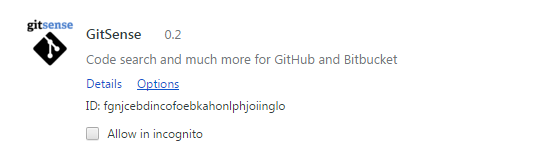
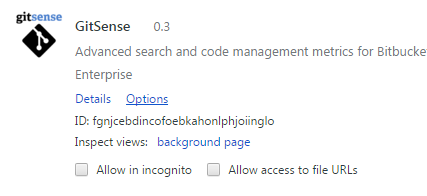
Publishing client-side routing post

diff --git a/blog/index.html b/blog/index.html
@@ -33,7 +33,109 @@
                         </h1>  
                     </div>
                     <div class=blog-post-summaries>
-<!-- START OF Benchmarking DigitalOcean, Vultr and a Six Year Old Laptop with GitSense -->
+<!-- START OF BLOG -->
+                        <h2 style="margin-bottom:5px;">
+                            <a href=/blog/client-side-routing.html class=blog-post-title>
+                                Using Client-Side Routing to Route Bitbucket, GitHub and GitHub Enterprise Searches
+                            </a>
+                        </h3>
+                        <div class=blog-post-metadata> 
+                            By Terrence Chen on March 21, 2016 
+                        </div>
+<p>
+If you have never heard of GitSense before, GitSense brings advanced search and code management metrics to <a href=https://bitbucket.org>Bitbucket</a>, <a href=https://github.com>GitHub</a> and <a href=https://github.com/business>GitHub Enterprise</a>.  And in this blog post, we'll talk about client-side routing and how it's used by GitSense, to support its divide and conquer approach to indexing and searching.
+</p>
+<p>
+Indexing and searching at GitHub and Bitbucket's scale is extremely challenging.  Creating and maintaining real-time search indexes, for millions of repositories, <a href=http://exploringelasticsearch.com/github_interview.html>requires significant processing power and lots of fast storage</a>; both of which, are not in abundance, for a bootstrapped startup like ours.  Luckily for us, improving search breadth (searching across millions of repositories) is not something we are interested in; improving search depth (drilling into repositories) is.
+</p>
+<p>
+In order for GitHub to support searches across millions of repositories, they have to take a shallow approach to indexing.  This is why you can't search for commits or diffs and why you can't search forked repositories and <a href=/github+gitsense.html>so forth</a>.  By focusing on search breadth, GitHub leaves a pretty big hole with regards to repository insight, and that's the hole we are interested in filling.
+</p>
+<p>
+If you've read our first blog post on <a href=/blog/benchmarking-march-14-2016.html>benchmarking low cost platforms</a>, you would know our indexers are designed to be installed, pretty much anywhere.  And it was our first post for a reason.  We wanted to highlight, early on, how GitSense could be used to divide and conquer, indexing and searching, at a massive scale.  And in this blog post, we'll go over how our <a href=https://chrome.google.com/webstore/detail/gitsense/fgnjcebdincofoebkahonlphjoiinglo>Chrome extension</a> is able to support such a model.
+</p>
+<p>
+If you haven't installed our Chrome extension you can do so through the <a href=https://chrome.google.com/webstore/detail/gitsense/fgnjcebdincofoebkahonlphjoiinglo>Chrome Webstore</a> or manually, by downloading the source from <a href=https://github.com/gitsense/gitsense-extensions>GitHub</a> or <a href=https://bitbucket.org/gitsense/gitsense-extensions/overview>Bitbucket</a>.  
+</p>
+
+<p>
+If have already installed GitSense, make sure to upgrade it to the latest version (0.3), which contains client-side routing support. You may also have to re-enable the GitSense extension, since changes were made to how permissions are requested.
+</p>
+
+<p>
+With GitSense installed, goto the GitSense options page, by entering <code>chrome://extensions</code> in your browser's location bar.
+</p>
+<p>
+<img src=/images/blog-client-side/chrome-extension-url.PNG class="box shadow" style="margin-top:5px;margin-bottom:5px;">
+</p>
+<p>
+and clicking on "Options" 
+</p>
+<p>
+<img src=/images/blog-client-side/extensions-options.png class="box shadow" style="margin-top:5px;margin-bottom:5px;">
+</p>
+<p>
+With the options page loaded, you'll find it comes with two default routing rules.
+</p>
+<p>
+<a href=/images/blog-client-side/default-options.png><img src=/images/blog-client-side/default-options.png class="box shadow" style="margin-top:5px;margin-bottom:5px;"></a>
+</p>
+<p>
+The first rule matches all Bitbucket URLs.  The second rule matches all GitHub URLs.  And if you expand the settings for each rule, you'll find they both reference the GitSense server at https://api.gitsense.com and GitHub/Bitbucket's respective API servers.
+</p>
+<p>
+To view the JSON for these two routing rules, refer to <a href=https://github.com/gitsense/gitsense-extensions/blob/master/chrome/js/config.js style="font-family:monospace">chrome/js/config.js</a> and to see how they are matched, refer to the <a href=https://github.com/gitsense/gitsense-extensions/blob/master/chrome/js/utils/config.js#L4 style="font-family:monospace">getRule</a> function that is defined in <a href=https://github.com/gitsense/gitsense-extensions/blob/master/chrome/js/utils/config.js style="font-family:monospace">chrome/js/utils/config.js</a>.  
+</p>
+<p>
+As a side note, https://api.gitsense.com is our public GitSense server and at the present moment, we are indexing about 5,000 Git repositories.  And since there are millions of repositories hosted on both GitHub and Bitbucket, we are mostly likely not indexing a repository that belongs to you and/or one that you are interested in.
+</p>
+<p>We are also not planning on indexing as many repos as we can, as that's not our objective.  Our objective is to empower the end user, by making it, insanely easy for Bitbucket, GitHub, and GitHub Enterprise users to install our technology, so they can index/search whatever repos they want.
+</p>
+<p>
+Now back to the topic at hand.  As explained earlier, <a href=https://help.github.com/articles/searching-code/>forked repositories</a> are not searchable in GitHub.  If you goto <a href=https://github.com/gitsense/atom/search?type=Code>https://github.com/gitsense/atom/search?type=Code</a>, you'll find a repo that we forked from <a href=https://github.com/atom/atom>atom/atom</a> and in this page, you'll find the following message:
+</p>
+<p>
+<img src=/images/blog-client-side/not-searchable.png class="box shadow" style="margin-top:5px;margin-bottom:5px;">
+</p>
+<p>
+If you have a forked repo in GitHub or GitHub Enteprise, you may find this search limitation a little inconvenient; luckily this is an easy fix for GitSense.  To make this repository branch level searchable, we just need to let GitSense know about it.
+</p>
+<p>
+For brevity sake, we are not going to go over how to install and administer our GitSense server.  We'll leave that for another post.  You just need to know one has been installed locally at 192.168.1.77 and has been setup to index our forked <a href=https://github.com/gitsense/atom>gitsense/atom</a> repository.
+</p>
+<p> 
+With our local GitSense server in place, we'll add a new routing rule to our Chrome extension. To do this, click the "Create new rule" button in GitSense options page.
+</p>
+</p>
+<p>
+<a href=/images/blog-client-side/blank-new-rule.PNG><img src=/images/blog-client-side/blank-new-rule.PNG class="box shadow" style="margin-top:5px;margin-bottom:5px;"></a>
+</p>
+<p>
+By default, the GitSense options script (<a href=https://github.com/gitsense/gitsense-extensions/blob/master/chrome/options.js style="font-family:monospace">chrome/options.js</a>) will append new rules and if you've read the code for the <a href=https://github.com/gitsense/gitsense-extensions/blob/master/chrome/js/utils/config.js#L4 style="font-family:monospace">getRule</a> function in <a href=https://github.com/gitsense/gitsense-extensions/blob/master/chrome/js/utils/config.js style="font-family:monospace">chrome/js/utils/config.js</a>, you'll know order is important. To ensure this rule is matched before <code>https://github.com/*</code>, we'll move it up one. Below is what the new rule looks like, with all the required fields filled in.  
+</p>
+</p>
+<p>
+<a href=/images/blog-client-side/new-rule.PNG><img src=/images/blog-client-side/new-rule.PNG class="box shadow" style="margin-top:5px;margin-bottom:5px;"></a>
+</p>
+<p>
+With the new routing rule in place, we can goto <a href=https://github.com/gitsense/atom>https://github.com/gitsense/atom</a> and do a quick search to see if everything works, and it does, as the screenshot below shows:
+</p>
+<p>
+<a href=/images/blog-client-side/forked-search.png><img src=/images/blog-client-side/forked-search.png class="box shadow" style="margin-top:5px;margin-bottom:5px;"></a>
+</p>
+<p>And if we bring up the Chrome debugger (Shift+Ctrl+J), we can confirm the queries are indeed, being routed to our local GitSense server at https://192.168.1.77
+<p>
+<a href=/images/blog-client-side/network.png><img src=/images/blog-client-side/network.png class="box shadow" style="margin-top:5px;margin-bottom:5px;"></a>
+</p>
+<p>
+So just like that, <a href=/github+gitsense.html>GitHub+Gitsense</a> turned a non-searchable GitHub repository, into a searchable one. 
+</p>
+<p>
+Well we hope this post was informative and if you want to learn more about our <a href=https://chrome.google.com/webstore/detail/gitsense/fgnjcebdincofoebkahonlphjoiinglo>Chrome extension</a>, you can find the source at <a href=https://github.com/gitsense/gitsense-extensions>GitHub</a> and <a href=https://bitbucket.org/gitsense/gitsense-extensions>Bitbucket</a>. &nbsp;And if you are looking to improve your Bitbucket, GitHub or GitHub Enterprise browsing/search experience, make sure to send an email to <a href=mailto:privatebeta@gitsense.com>privatebeta@gitsense.com</a>, to register for the free GitSense Beta trial, that will be starting soon.
+</p>
+<!-- END OF BLOG -->
+<div style="width:100%;margin-top:50px;margin-bottom:50px;border-bottom:2px solid #666;"></div>
+<!-- START OF BLOB -->
                         <h2 style="margin-bottom:5px;">
                             <a href=/blog/benchmarking-march-14-2016.html class=blog-post-title>
                                 Benchmarking DigitalOcean, Vultr and a Six Year Old Laptop with GitSense
@@ -402,8 +504,7 @@ If you have noticed the same or if you have experienced the complete opposite, s
 The laptop performing better than the cloud virtual machines, didn't really come as a surprise. Throwing more RAM and Cores at a problem, will usually do the trick, provided the CPU is up to the task. Given how close the numbers were, upgrading to the $20/month VPS plans would probably get you the same results, if not better.</p>
 <p>
 Well we hope this was informative and if you are looking for a simple way to enhance your GitHub and Bitbucket browsing experience, make sure to send an email to <a href=mailto:privatebeta@gitsense.com>privatebeta@gitsense.com</a>, to register for the free GitSense beta trial, that will be starting soon.</p>
-
-<!-- END OF Benchmarking DigitalOcean, Vultr and a Six Year Old Laptop with GitSense -->
+<!-- END OF BLOG -->
                     </div>
                 </div>
             </div>

diff --git a/blog/client-side-routing.html b/blog/client-side-routing.html
@@ -36,7 +36,7 @@
 <!-- START OF BLOG -->
                         <h2 style="margin-bottom:5px;">
                             <a href=/blog/client-side-routing.html class=blog-post-title>
-                                How GitSense Uses Client-Side Routing to Route Bitbucket, GitHub and GitHub Enterprise Searches
+                                Using Client-Side Routing to Route Bitbucket, GitHub and GitHub Enterprise Searches
                             </a>
                         </h3>
                         <div class=blog-post-metadata> 
@@ -46,16 +46,24 @@
 If you have never heard of GitSense before, GitSense brings advanced search and code management metrics to <a href=https://bitbucket.org>Bitbucket</a>, <a href=https://github.com>GitHub</a> and <a href=https://github.com/business>GitHub Enterprise</a>.  And in this blog post, we'll talk about client-side routing and how it's used by GitSense, to support its divide and conquer approach to indexing and searching.
 </p>
 <p>
-Indexing and searching at GitHub and Bitbucket's scale is extremely challenging.  Creating and maintaining real-time search indexes, for millions of repositories, requires significant processing power and lots of fast storage; both of which, are not in abundance, for a startup like ours.  Luckily for us, improving search breadth, i.e. searching across millions of repositories, is not our goal; improving search depth is.
+Indexing and searching at GitHub and Bitbucket's scale is extremely challenging.  Creating and maintaining real-time search indexes, for millions of repositories, <a href=http://exploringelasticsearch.com/github_interview.html>requires significant processing power and lots of fast storage</a>; both of which, are not in abundance, for a bootstrapped startup like ours.  Luckily for us, improving search breadth (searching across millions of repositories) is not something we are interested in; improving search depth (drilling into repositories) is.
 </p>
 <p>
-In order for GitHub to support searches across millions of repositories, they have to take a shallow approach to indexing.  This is why you can't search for commits and diffs and why you can't search forked repositories and <a href=/github+gitsense.html>so forth</a>.  By focusing on search breadth, GitHub leaves a pretty big hole with regards to search depth, and that's the hole, that GitSense is designed to fill.
+In order for GitHub to support searches across millions of repositories, they have to take a shallow approach to indexing.  This is why you can't search for commits or diffs and why you can't search forked repositories and <a href=/github+gitsense.html>so forth</a>.  By focusing on search breadth, GitHub leaves a pretty big hole with regards to repository insight, and that's the hole we are interested in filling.
 </p>
 <p>
-If you've read our first blog post on <a href=/blog/benchmarking-march-14-2016.html>benchmarking low cost platforms</a>, you would know our indexers are designed to be installed, pretty much anywhere.  And it was our first post for a reason.  We wanted to highlight, early on, how GitSense could be used to divide and conquer, indexing and searching at a massive scale.  And in this blog post, we'll go over how our <a href=https://chrome.google.com/webstore/detail/gitsense/fgnjcebdincofoebkahonlphjoiinglo>Chrome extension</a>, can support such a model.
+If you've read our first blog post on <a href=/blog/benchmarking-march-14-2016.html>benchmarking low cost platforms</a>, you would know our indexers are designed to be installed, pretty much anywhere.  And it was our first post for a reason.  We wanted to highlight, early on, how GitSense could be used to divide and conquer, indexing and searching, at a massive scale.  And in this blog post, we'll go over how our <a href=https://chrome.google.com/webstore/detail/gitsense/fgnjcebdincofoebkahonlphjoiinglo>Chrome extension</a> is able to support such a model.
 </p>
 <p>
-If you haven't installed our GitSense Chrome extension yet, you can do so through the <a href=https://chrome.google.com/webstore/detail/gitsense/fgnjcebdincofoebkahonlphjoiinglo>Chrome Webstore</a> or manually, by downloading the source from <a href=https://github.com/gitsense/gitsense-extensions>GitHub</a> or <a href=https://bitbucket.org/gitsense/gitsense-extensions/overview>Bitbucket</a>.  Once it has been installed, open the GitSense options page, by entering <code>chrome://extensions</code> in your browser's location bar.
+If you haven't installed our Chrome extension you can do so through the <a href=https://chrome.google.com/webstore/detail/gitsense/fgnjcebdincofoebkahonlphjoiinglo>Chrome Webstore</a> or manually, by downloading the source from <a href=https://github.com/gitsense/gitsense-extensions>GitHub</a> or <a href=https://bitbucket.org/gitsense/gitsense-extensions/overview>Bitbucket</a>.  
+</p>
+
+<p>
+If have already installed GitSense, make sure to upgrade it to the latest version (0.3), which contains client-side routing support. You may also have to re-enable the GitSense extension, since changes were made to how permissions are requested.
+</p>
+
+<p>
+With GitSense installed, goto the GitSense options page, by entering <code>chrome://extensions</code> in your browser's location bar.
 </p>
 <p>
 <img src=/images/blog-client-side/chrome-extension-url.PNG class="box shadow" style="margin-top:5px;margin-bottom:5px;">
@@ -76,12 +84,12 @@ With the options page loaded, you'll find it comes with two default routing rule
 The first rule matches all Bitbucket URLs.  The second rule matches all GitHub URLs.  And if you expand the settings for each rule, you'll find they both reference the GitSense server at https://api.gitsense.com and GitHub/Bitbucket's respective API servers.
 </p>
 <p>
-To view the JSON for the default routing rules, refer to <a href=https://github.com/gitsense/gitsense-extensions/blob/master/chrome/js/config.js style="font-family:monospace">chrome/js/config.js</a> and to see how they are matched, refer to the <a href=https://github.com/gitsense/gitsense-extensions/blob/master/chrome/js/utils/config.js#L4 style="font-family:monospace">getRule</a> function that is defined in <a href=https://github.com/gitsense/gitsense-extensions/blob/master/chrome/js/utils/config.js style="font-family:monospace">chrome/js/utils/config.js</a>.  
+To view the JSON for these two routing rules, refer to <a href=https://github.com/gitsense/gitsense-extensions/blob/master/chrome/js/config.js style="font-family:monospace">chrome/js/config.js</a> and to see how they are matched, refer to the <a href=https://github.com/gitsense/gitsense-extensions/blob/master/chrome/js/utils/config.js#L4 style="font-family:monospace">getRule</a> function that is defined in <a href=https://github.com/gitsense/gitsense-extensions/blob/master/chrome/js/utils/config.js style="font-family:monospace">chrome/js/utils/config.js</a>.  
 </p>
 <p>
-As a side note, https://api.gitsense.com is our public GitSense server and at the present moment, we are indexing about 5,000 Git repositories.  And because there are millions of repositories hosted on both GitHub and Bitbucket, we are mostly likely not indexing a repository that belongs to you and/or one that you are interested in.
+As a side note, https://api.gitsense.com is our public GitSense server and at the present moment, we are indexing about 5,000 Git repositories.  And since there are millions of repositories hosted on both GitHub and Bitbucket, we are mostly likely not indexing a repository that belongs to you and/or one that you are interested in.
 </p>
-<p>We are also not planning on indexing as many repos as we can, as that's not our objective.  Our objective is to empower the end user, by making it, insanely easy for Bitbucket, GitHub, and GitHub Enterprise users to install our technology, and have them index/search whatever repos they want.
+<p>We are also not planning on indexing as many repos as we can, as that's not our objective.  Our objective is to empower the end user, by making it, insanely easy for Bitbucket, GitHub, and GitHub Enterprise users to install our technology, so they can index/search whatever repos they want.
 </p>
 <p>
 Now back to the topic at hand.  As explained earlier, <a href=https://help.github.com/articles/searching-code/>forked repositories</a> are not searchable in GitHub.  If you goto <a href=https://github.com/gitsense/atom/search?type=Code>https://github.com/gitsense/atom/search?type=Code</a>, you'll find a repo that we forked from <a href=https://github.com/atom/atom>atom/atom</a> and in this page, you'll find the following message:
@@ -120,10 +128,10 @@ With the new routing rule in place, we can goto <a href=https://github.com/gitse
 <a href=/images/blog-client-side/network.png><img src=/images/blog-client-side/network.png class="box shadow" style="margin-top:5px;margin-bottom:5px;"></a>
 </p>
 <p>
-So just like that, <a href=/github+gitsense.html>GitHub+Gitsense</a> turned a non-searchable GitHub repository, into a searchable one. And most importantly, it did so all from within GitHub.
+So just like that, <a href=/github+gitsense.html>GitHub+Gitsense</a> turned a non-searchable GitHub repository, into a searchable one. 
 </p>
 <p>
-Well we hope this post was informative and if you want to learn more about our <a href=https://chrome.google.com/webstore/detail/gitsense/fgnjcebdincofoebkahonlphjoiinglo>Chrome extension</a>, you can find our open source code at <a href=/https://github.com/gitsense/gitsense-extensions>GitHub</a> and <a href=/https://bitbucket.org/gitsense/gitsense-extensions>Bitbucket</a>. &nbsp;And if you are looking to improve your Bitbucket, GitHub and GitHub Enterprise browsing/search experience, make sure to send an email to <a href=mailto:privatebeta@gitsense.com>privatebeta@gitsense.com</a>, to register for the free GitSense Beta trial, that will be starting soon.
+Well we hope this post was informative and if you want to learn more about our <a href=https://chrome.google.com/webstore/detail/gitsense/fgnjcebdincofoebkahonlphjoiinglo>Chrome extension</a>, you can find the source at <a href=https://github.com/gitsense/gitsense-extensions>GitHub</a> and <a href=https://bitbucket.org/gitsense/gitsense-extensions>Bitbucket</a>. &nbsp;And if you are looking to improve your Bitbucket, GitHub or GitHub Enterprise browsing/search experience, make sure to send an email to <a href=mailto:privatebeta@gitsense.com>privatebeta@gitsense.com</a>, to register for the free GitSense Beta trial, that will be starting soon.
 </p>
 <!-- END OF BLOG -->
                     </div>
@@ -135,8 +143,5 @@ Well we hope this post was informative and if you want to learn more about our <
         </div>
         </center>
     </center>
-    <script type="text/javascript"> 
-        gitsense.howItWorks([ "on" ]);
-    </script>
     </body>
 </html>

diff --git a/github+gitsense.html b/github+gitsense.html
@@ -71,7 +71,7 @@
                             </td>
                         </tr>
                         <tr>
-                            <td><a href=https://github.com/blog/1381-a-whole-new-code-search>Search for code in non-forked repositories only</a></td>
+                            <td><a href=https://help.github.com/articles/searching-code/>Search for code in non-forked repositories only</a></td>
                             <td class=compare-check>
                                 <span class="green-dot octicon octicon-check"></span>
                             </td>
@@ -79,7 +79,7 @@
                             </td>
                         </tr>
                         <tr>
-                            <td><a href=https://github.com/blog/1381-a-whole-new-code-search>Search for code in files smaller than 345KB only</a></td>
+                            <td><a href=https://help.github.com/articles/searching-code/>Search for code in files smaller than 345KB only</a></td>
                             <td class=compare-check>
                                 <span class="green-dot octicon octicon-check"></span>
                             </td>

diff --git a/blog/benchmarking-march-14-2016.html b/blog/benchmarking-march-14-2016.html
@@ -413,8 +413,5 @@ Well we hope this was informative and if you are looking for a simple way to enh
         </div>
         </center>
     </center>
-    <script type="text/javascript"> 
-        gitsense.howItWorks([ "on" ]);
-    </script>
     </body>
 </html>
